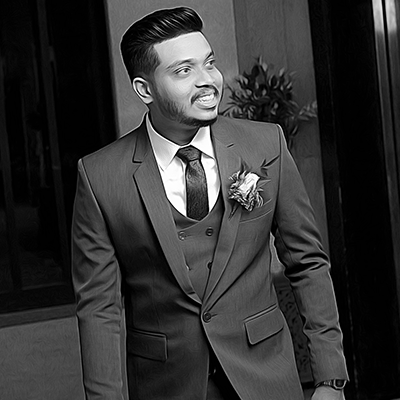
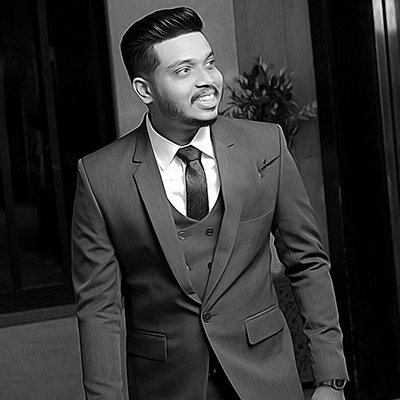
contact page updated

Changed region(s): [[0.57, 0.39, 0.69, 0.54]]

diff --git a/contact.html b/contact.html
@@ -219,7 +219,7 @@
       <!-- breadcrumb area end -->
 
       <!--contact-area-start -->
-      <div class="tp-contact-area pt-135 pb-130 px-3 px-md-0">
+      <div class="tp-contact-area pt-135 pb-100 px-3 px-md-0">
         <div class="container">
           <div class="row">
             <div class="col-xl-6 col-lg-6">
@@ -287,15 +287,15 @@
       </div>
       <!-- contact-area-end -->
       <div
-        class="tp-contact-area pt-50 pb-50 px-3 px-md-0 wow tpfadeLeft"
+        class="tp-contact-area pb-100 px-3 px-md-0 wow tpfadeLeft"
         data-wow-duration=".3s"
         data-wow-delay=".5s"
       >
         <div class="container">
           <div class="row">
-            <div class="image-container">
+            <div class="contact-img">
               <img
-                src="./assets/img/team/real/08.png"
+                src="./assets/img/team/real/mock-img.png"
                 class="img-fluid teamImagesRes"
                 alt="Responsive image "
               />

diff --git a/assets/css/style2.css b/assets/css/style2.css
@@ -61,3 +61,9 @@
   border-radius: 18px;
   border: 3px solid #1fbfb7;
 }
+
+.contact-img {
+  display: flex;
+  align-items: center;
+  justify-content: center;
+}
